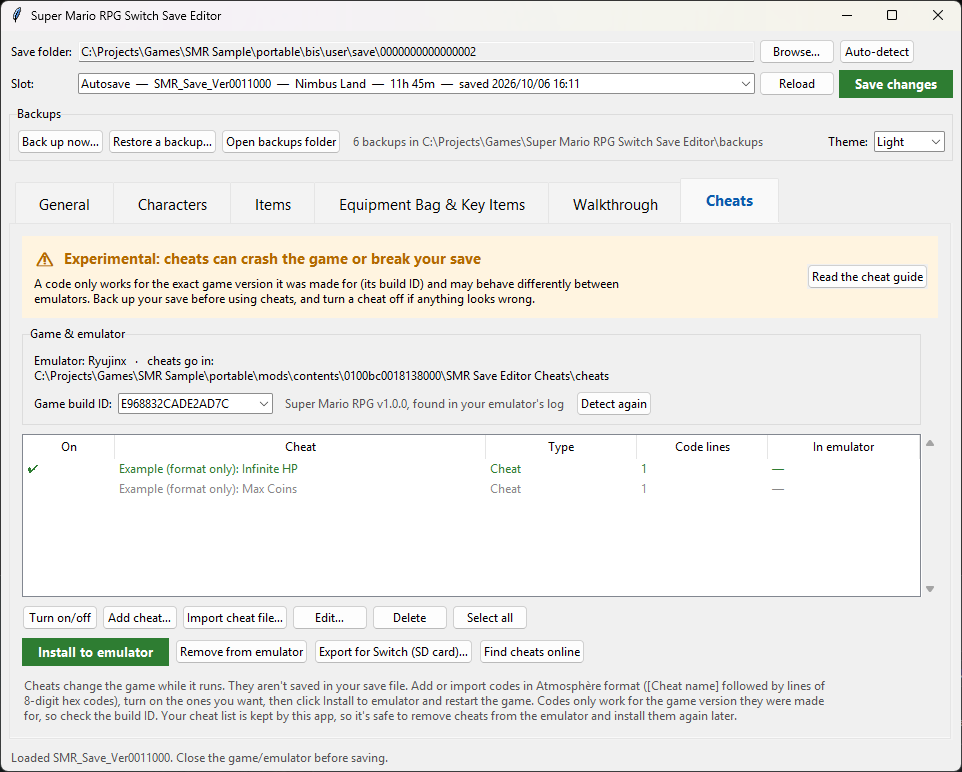
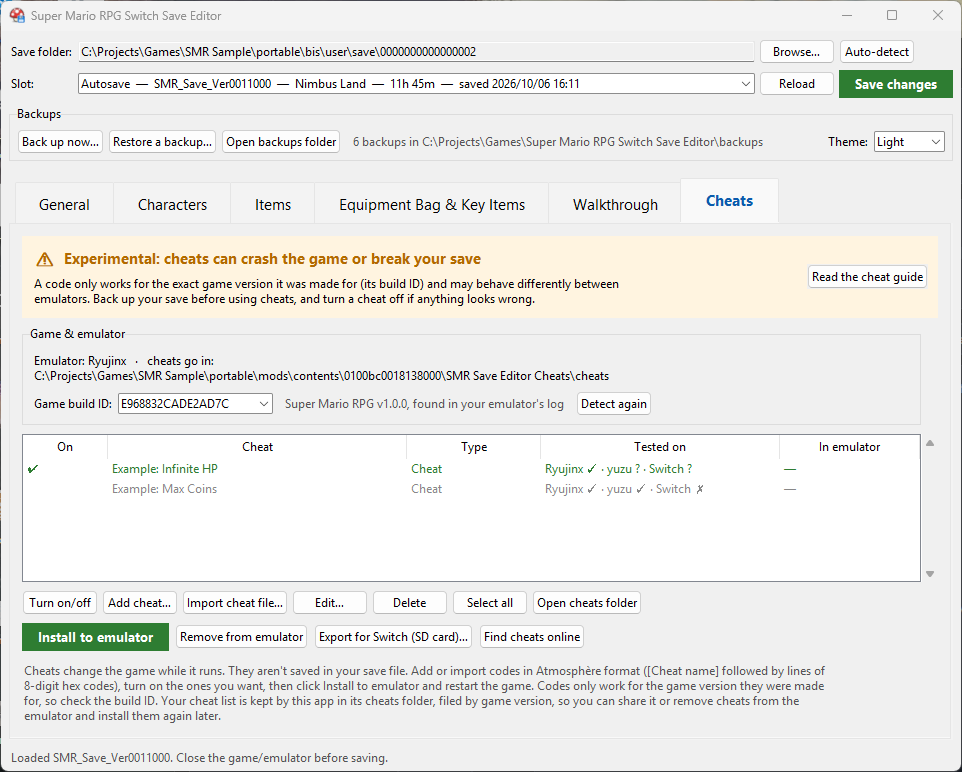
File cheats in a per-version library with tested-on results
- Cheats are saved in cheats/<game>/<version - build ID>/ as the
  Atmosphere .txt, info.json (description, author, tested on Ryujinx /
  yuzu family / Switch) and a generated README table, ready to share
- Add/Edit dialog gains What it does, Author and Tested on fields; the
  Cheats tab shows a Tested on column and an Open cheats folder button
- Importing a library folder brings its descriptions and test results
- Which cheats are switched on is kept per user in settings; cheats saved
  by the previous version are moved into the library automatically
- cheats/README.md and the cheat guide explain the layout

diff --git a/smr_save_editor.py b/smr_save_editor.py
@@ -24,6 +24,7 @@ from tkinter import filedialog, messagebox, simpledialog, ttk
 APP_NAME = "Super Mario RPG Switch Save Editor"
 APP_DIR = os.path.dirname(os.path.abspath(sys.executable if getattr(sys, "frozen", False) else __file__))
 BACKUP_DIR = os.path.join(APP_DIR, "backups")
+CHEAT_LIB_DIR = os.path.join(APP_DIR, "cheats")   # cheats/<game>/<version - build ID>/, shareable
 RESOURCE_DIR = getattr(sys, "_MEIPASS", APP_DIR)     # bundled files live here inside the .exe
 SETTINGS_PATH = os.path.join(os.environ.get("APPDATA") or os.path.expanduser("~/.config"),
                              APP_NAME, "settings.json")
@@ -445,6 +446,87 @@ def format_cheats(cheats):
     return "\n".join(out)
 
 
+# ---------- cheat library: cheats/<game>/<version - build ID>/ ----------
+GAME_FOLDER = f"{TITLE_ID} - Super Mario RPG"
+TEST_TARGETS = ("Ryujinx", "yuzu family", "Switch")
+TEST_STATES = ("Untested", "Works", "Doesn't work")
+TEST_ICONS = {"Untested": "❔", "Works": "✅", "Doesn't work": "❌"}
+
+
+def library_builds():
+    """{build ID: folder} for every game version that has a cheat folder."""
+    root = os.path.join(CHEAT_LIB_DIR, GAME_FOLDER)
+    found = {}
+    if os.path.isdir(root):
+        for name in sorted(os.listdir(root)):
+            m = re.search(r"([0-9A-Fa-f]{16})$", name)
+            if m and os.path.isdir(os.path.join(root, name)):
+                found[m.group(1).upper()] = os.path.join(root, name)
+    return found
+
+
+def build_folder(bid):
+    return library_builds().get(bid) or os.path.join(
+        CHEAT_LIB_DIR, GAME_FOLDER, f"{KNOWN_BUILDS.get(bid, 'unknown version')} - {bid}")
+
+
+def read_library(bid):
+    """Cheats filed for one build: the Atmosphère file plus the details in info.json."""
+    folder = library_builds().get(bid)
+    if not folder:
+        return []
+    try:
+        cheats = parse_cheats(open(os.path.join(folder, bid + ".txt"), encoding="utf-8-sig").read())
+    except (OSError, ValueError):
+        return []
+    try:
+        info = json.load(open(os.path.join(folder, "info.json"), encoding="utf-8"))
+        details = {c["name"]: c for c in info.get("cheats", [])}
+    except (OSError, ValueError, KeyError):
+        details = {}
+    for c in cheats:
+        d = details.get(c["name"], {})
+        c["description"] = d.get("description", "")
+        c["author"] = d.get("author", "")
+        c["tested"] = {t: d.get("tested", {}).get(t, "Untested") for t in TEST_TARGETS}
+    return cheats
+
+
+def write_library(bid, cheats):
+    """Write a build's folder: <build ID>.txt (ready for any emulator), info.json, README.md."""
+    folder = build_folder(bid)
+    if not cheats:
+        for f in (bid + ".txt", "info.json", "README.md"):
+            if os.path.exists(os.path.join(folder, f)):
+                os.remove(os.path.join(folder, f))
+        if os.path.isdir(folder) and not os.listdir(folder):
+            os.rmdir(folder)
+        return
+    os.makedirs(folder, exist_ok=True)
+    with open(os.path.join(folder, bid + ".txt"), "w", encoding="utf-8", newline="\n") as f:
+        f.write(format_cheats(cheats))
+    version = KNOWN_BUILDS.get(bid, "unknown version")
+    info = {"game": "Super Mario RPG", "title_id": TITLE_ID, "version": version, "build_id": bid,
+            "cheats": [{"name": c["name"], "description": c.get("description", ""), "author": c.get("author", ""),
+                        "master": bool(c.get("master")),
+                        "tested": {t: c.get("tested", {}).get(t, "Untested") for t in TEST_TARGETS}}
+                       for c in cheats]}
+    with open(os.path.join(folder, "info.json"), "w", encoding="utf-8", newline="\n") as f:
+        json.dump(info, f, indent=2, ensure_ascii=False)
+    rows = ["| Cheat | What it does | " + " | ".join(TEST_TARGETS) + " | Author |",
+            "|---|---|" + "---|" * len(TEST_TARGETS) + "---|"]
+    for c in cheats:
+        name = c["name"] + (" *(master code)*" if c.get("master") else "")
+        tested = " | ".join(TEST_ICONS[c.get("tested", {}).get(t, "Untested")] for t in TEST_TARGETS)
+        rows.append(f"| {name} | {c.get('description', '') or '—'} | {tested} | {c.get('author', '') or '—'} |")
+    with open(os.path.join(folder, "README.md"), "w", encoding="utf-8", newline="\n") as f:
+        f.write(f"# Super Mario RPG {version} cheats\n\nBuild ID `{bid}` · title ID `{TITLE_ID}`\n\n"
+                + "\n".join(rows) + "\n\n✅ works · ❌ doesn't work · ❔ untested\n\n"
+                "Install with the editor's **Cheats** tab (**Import cheat file…** and pick "
+                f"`{bid}.txt`), or copy `{bid}.txt` into your emulator's cheat folder. "
+                "See the [cheat guide](../../../docs/CHEATS.md).\n")
+
+
 def emulator_for(save_folder):
     """Work out which emulator a save folder belongs to, and where its cheats go.
 
@@ -836,8 +918,8 @@ class Editor(tk.Tk):
         ttk.Label(top, textvariable=self.build_note, style="Muted.TLabel").grid(row=1, column=2, sticky="w", padx=6, pady=(6, 0))
         ttk.Button(top, text="Detect again", command=self.detect_cheat_target).grid(row=1, column=3, padx=4, pady=(6, 0))
 
-        self.cheat_tree = self._make_tree(ct, (("on", "On", 50), ("name", "Cheat", 330), ("kind", "Type", 110),
-                                               ("lines", "Code lines", 90), ("installed", "In emulator", 110)),
+        self.cheat_tree = self._make_tree(ct, (("on", "On", 45), ("name", "Cheat", 260), ("kind", "Type", 95),
+                                               ("tested", "Tested on", 200), ("installed", "In emulator", 100)),
                                           row=2, height=6)
         self.cheat_tree.bind("<Double-1>", lambda e: self.toggle_cheats())
 
@@ -846,7 +928,7 @@ class Editor(tk.Tk):
         for text, cmd in (("Turn on/off", self.toggle_cheats), ("Add cheat…", self.add_cheat),
                           ("Import cheat file…", self.import_cheats), ("Edit…", self.edit_cheat),
                           ("Delete", self.delete_cheats), ("Select all", lambda: self.cheat_tree.selection_set(
-                              self.cheat_tree.get_children()))):
+                              self.cheat_tree.get_children())), ("Open cheats folder", self.open_cheat_folder)):
             ttk.Button(acts, text=text, command=cmd).pack(side="left", padx=(0, 4))
 
         inst = ttk.Frame(ct)
@@ -860,7 +942,7 @@ class Editor(tk.Tk):
             "codes in Atmosphère format ([Cheat name] followed by lines of 8-digit hex codes), turn on the "
             "ones you want, then click Install to emulator and restart the game. Codes only work for "
             "the game version they were made for, so check the build ID. Your cheat list is kept by "
-            "this app, so it's safe to remove cheats from the emulator and install them again later.")).grid(
+            "this app in its cheats folder, filed by game version, so you can share it or remove cheats from the emulator and install them again later.")).grid(
             row=5, column=0, columnspan=6, sticky="w", pady=(10, 0))
         nb.bind("<<NotebookTabChanged>>", self.on_tab_changed)
 
@@ -1627,26 +1709,38 @@ class Editor(tk.Tk):
             tree.heading(c, text=text + ((" ▼" if reverse else " ▲") if c == col else ""))
 
     # ---------- cheats ----------
-    def cheats_file(self):
-        return os.path.join(os.path.dirname(SETTINGS_PATH), "cheats.json")
-
     def load_cheat_library(self):
+        """Move cheats saved by older versions (one cheats.json in the settings folder) into the
+        per-build library folders."""
+        old = os.path.join(os.path.dirname(SETTINGS_PATH), "cheats.json")
+        if not os.path.exists(old):
+            return
         try:
-            with open(self.cheats_file(), encoding="utf-8") as f:
-                self.cheat_lib = json.load(f)
-        except (OSError, ValueError):
-            self.cheat_lib = {}
+            data = json.load(open(old, encoding="utf-8"))
+            for bid, cheats in data.items():
+                have = {c["name"]: c for c in read_library(bid)}
+                for c in cheats:
+                    have.setdefault(c["name"], dict(c, description="", author="",
+                                                    tested={t: "Untested" for t in TEST_TARGETS}))
+                write_library(bid, list(have.values()))
+                on = self.settings.setdefault("cheats_on", {}).setdefault(bid, [])
+                on.extend(c["name"] for c in cheats if c.get("on") and c["name"] not in on)
+            store_settings(self.settings)
+            os.replace(old, old + ".migrated")
+        except (OSError, ValueError, KeyError):
+            pass
 
     def store_cheat_library(self):
         bid = self.current_build()
-        if bid:
-            self.cheat_lib[bid] = self.cheats
+        if not bid:
+            return
         try:
-            os.makedirs(os.path.dirname(self.cheats_file()), exist_ok=True)
-            with open(self.cheats_file(), "w", encoding="utf-8") as f:
-                json.dump(self.cheat_lib, f, indent=2)
+            write_library(bid, self.cheats)
         except OSError as e:
-            messagebox.showerror("Couldn't save cheat list", str(e))
+            messagebox.showerror("Couldn't save cheats", str(e))
+            return
+        self.settings.setdefault("cheats_on", {})[bid] = [c["name"] for c in self.cheats if c.get("on")]
+        store_settings(self.settings)
 
     def current_build(self):
         bid = self.build_id.get().strip().upper()
@@ -1656,7 +1750,7 @@ class Editor(tk.Tk):
         self.emulator = emulator_for(self.root_dir.get())
         found = detect_build_ids(self.emulator)
         known = [b for b in found if b in KNOWN_BUILDS] + [b for b in found if b not in KNOWN_BUILDS]
-        stored = [b for b in self.cheat_lib if b not in known]
+        stored = [b for b in library_builds() if b not in known]
         self.build_box["values"] = known + stored
         if known:
             self.build_id.set(known[0])
@@ -1673,13 +1767,16 @@ class Editor(tk.Tk):
 
     def load_cheats(self):
         bid = self.current_build()
-        self.cheats = [dict(c) for c in self.cheat_lib.get(bid, [])] if bid else []
+        self.cheats = read_library(bid) if bid else []
+        on = set(self.settings.get("cheats_on", {}).get(bid, []))
+        for c in self.cheats:
+            c["on"] = c["name"] in on
         if not bid:
             self.build_note.set("Enter the 16-character build ID (Ryujinx: right-click the game → Manage Cheats).")
         elif bid in KNOWN_BUILDS:
             self.build_note.set(f"Super Mario RPG {KNOWN_BUILDS[bid]}, found in your emulator's log")
         elif bid in (self.build_box["values"] or ()):
-            self.build_note.set("Found in your emulator's log")
+            self.build_note.set("Found in your emulator's log or your cheat library")
         else:
             self.build_note.set("Entered by hand")
         self.refresh_cheats()
@@ -1698,12 +1795,22 @@ class Editor(tk.Tk):
         keep = set(self.cheat_tree.selection()) if keep is None else {str(k) for k in keep}
         self.cheat_tree.delete(*self.cheat_tree.get_children())
         installed = self.installed_names()
+        short = {"Ryujinx": "Ryujinx", "yuzu family": "yuzu", "Switch": "Switch"}
         for n, c in enumerate(self.cheats):
+            marks = {"Untested": "?", "Works": "✓", "Doesn't work": "✗"}      # plain symbols draw cleanly in Tk
+            tested = " · ".join(f"{short[t]} {marks[c.get('tested', {}).get(t, 'Untested')]}" for t in TEST_TARGETS)
             self.cheat_tree.insert("", "end", iid=str(n), tags=("on" if c.get("on") else "off",), values=(
                 "✔" if c.get("on") else "", c["name"], "Master code" if c.get("master") else "Cheat",
-                len(c["lines"]), "Installed" if c["name"] in installed else "—"))
+                tested, "Installed" if c["name"] in installed else "—"))
         self.cheat_tree.selection_set([k for k in keep if self.cheat_tree.exists(k)])
         self.apply_sort(self.cheat_tree)
+
+    def open_cheat_folder(self):
+        if self.need_build():
+            return
+        folder = build_folder(self.current_build())
+        os.makedirs(folder, exist_ok=True)
+        open_folder(folder)
 
     def selected_cheats(self):
         return sorted(int(s) for s in self.cheat_tree.selection())
@@ -1736,6 +1843,9 @@ class Editor(tk.Tk):
             new = [c for c in new if c["name"] not in names]
         for c in new:
             c.setdefault("on", False)
+            c.setdefault("description", "")
+            c.setdefault("author", "")
+            c.setdefault("tested", {t: "Untested" for t in TEST_TARGETS})
             if c["name"] in names:
                 self.cheats[names[c["name"]]] = c
             else:
@@ -1766,32 +1876,54 @@ class Editor(tk.Tk):
                                        f"but the build ID selected is {self.current_build()}. Cheats for a "
                                        "different version usually don't work. Import anyway?"):
                 return
+        # A library folder carries descriptions and test results next to the cheat file.
+        info = os.path.join(os.path.dirname(path), "info.json")
+        if os.path.exists(info):
+            try:
+                details = {c["name"]: c for c in json.load(open(info, encoding="utf-8")).get("cheats", [])}
+                for c in new:
+                    d = details.get(c["name"], {})
+                    c["description"], c["author"] = d.get("description", ""), d.get("author", "")
+                    c["tested"] = {t: d.get("tested", {}).get(t, "Untested") for t in TEST_TARGETS}
+            except (OSError, ValueError, KeyError):
+                pass
         self.add_cheats(new, os.path.basename(path))
 
     def cheat_dialog(self, cheat=None):
         """Add/edit dialog. Returns the new cheat dict, or None if cancelled."""
         win = tk.Toplevel(self)
         win.title("Edit cheat" if cheat else "Add cheat")
-        win.geometry("560x420")
+        win.geometry("600x600")
         win.transient(self)
         win.grab_set()
         body = ttk.Frame(win, padding=12)
         body.pack(fill="both", expand=True)
-        ttk.Label(body, text="Name").pack(anchor="w")
-        name = tk.StringVar(value=cheat["name"] if cheat else "")
-        ttk.Entry(body, textvariable=name, width=60).pack(anchor="w", fill="x")
-        master = tk.BooleanVar(value=bool(cheat and cheat.get("master")))
+        cheat = cheat or {}
+        fields = {}
+        for key, label in (("name", "Name"), ("description", "What it does"), ("author", "Author (optional)")):
+            ttk.Label(body, text=label).pack(anchor="w", pady=(6, 0) if key != "name" else 0)
+            fields[key] = tk.StringVar(value=cheat.get(key, ""))
+            ttk.Entry(body, textvariable=fields[key], width=70).pack(anchor="w", fill="x")
+        master = tk.BooleanVar(value=bool(cheat.get("master")))
         ttk.Checkbutton(body, text="Master code (needed by some cheats; always on)", variable=master).pack(
-            anchor="w", pady=(6, 0))
+            anchor="w", pady=(8, 0))
+        tested_box = ttk.LabelFrame(body, text="Tested on", padding=6)
+        tested_box.pack(fill="x", pady=(8, 0))
+        tested = {}
+        for col, target in enumerate(TEST_TARGETS):
+            ttk.Label(tested_box, text=target).grid(row=0, column=col * 2, sticky="w", padx=(0 if col == 0 else 14, 4))
+            tested[target] = tk.StringVar(value=cheat.get("tested", {}).get(target, "Untested"))
+            ttk.Combobox(tested_box, textvariable=tested[target], values=TEST_STATES, state="readonly",
+                         width=12).grid(row=0, column=col * 2 + 1)
         ttk.Label(body, text="Code (one instruction per line, 8-digit hex groups)").pack(anchor="w", pady=(8, 0))
-        code = tk.Text(body, height=12, font=("Consolas", 10), wrap="none")
+        code = tk.Text(body, height=10, font=("Consolas", 10), wrap="none")
         code.pack(fill="both", expand=True)
-        if cheat:
+        if cheat.get("lines"):
             code.insert("1.0", "\n".join(cheat["lines"]))
         result = {}
 
         def ok():
-            label = name.get().strip()
+            label = fields["name"].get().strip()
             if not label or any(ch in label for ch in "[]{}"):
                 messagebox.showerror("Name needed", "Give the cheat a name (without [ ] or { }).", parent=win)
                 return
@@ -1801,6 +1933,9 @@ class Editor(tk.Tk):
                 messagebox.showerror("Invalid code", str(e).replace("Line ", "Code line ", 1), parent=win)
                 return
             result["cheat"] = {"name": label, "lines": parsed[0]["lines"], "master": master.get(),
+                               "description": fields["description"].get().strip(),
+                               "author": fields["author"].get().strip(),
+                               "tested": {t: v.get() for t, v in tested.items()},
                                "on": bool(cheat.get("on")) if cheat else master.get()}
             win.destroy()
 
@@ -1833,7 +1968,7 @@ class Editor(tk.Tk):
     def delete_cheats(self):
         sel = self.selected_cheats()
         if not sel or not messagebox.askyesno("Delete cheats", f"Delete {len(sel)} cheat"
-                                              f"{'s' if len(sel) != 1 else ''} from your list?"):
+                                              f"{'s' if len(sel) != 1 else ''} from your library?"):
             return
         self.cheats = [c for n, c in enumerate(self.cheats) if n not in sel]
         self.store_cheat_library()

diff --git a/cheats/README.md b/cheats/README.md
@@ -1,0 +1,32 @@
+# 🎮 Cheat library
+
+> [!WARNING]
+> Cheats are **experimental**. A code only works for the exact game version it was made for, and a mismatched code can crash the game or corrupt your save. **Back up your save first.** See the [cheat guide](../docs/CHEATS.md).
+
+Cheats are filed by **game**, then by **game version (build ID)**:
+
+```
+cheats/
+└── 0100BC0018138000 - Super Mario RPG/
+    └── v1.0.0 - E968832CADE2AD7C/
+        ├── E968832CADE2AD7C.txt   ← all cheats for this version (Atmosphère format)
+        ├── info.json              ← what each cheat does, who made it, where it was tested
+        └── README.md              ← a readable table of the above
+```
+
+## Why only by version?
+
+| What | Needs its own folder? | Why |
+|---|---|---|
+| **Game version (build ID)** | ✅ Yes | Codes point at memory addresses that move with every game update |
+| Emulator (Ryujinx, yuzu family) or Switch | ❌ No | They all run the same Atmosphère cheat format, so one file works everywhere. Each cheat records where it was **tested** instead: ✅ works · ❌ doesn't work · ❔ untested |
+| Switch firmware | ❌ No | Cheats talk to the game, not the system |
+
+## Using a cheat file
+
+- **With the editor:** on the **Cheats** tab, click **Import cheat file…** and pick the `.txt` inside the version folder. The descriptions and test results in `info.json` come along too.
+- **By hand:** copy the `.txt` into your emulator's cheat folder. The [cheat guide](../docs/CHEATS.md#where-the-files-go) lists where that is.
+
+## Adding cheats
+
+Cheats you add in the editor are filed here automatically, in the right version folder, along with their descriptions and test results. To share them, commit the folder or open a pull request. Please fill in **What it does** and **Tested on** for every cheat.

diff --git a/docs/CHEATS.md b/docs/CHEATS.md
@@ -6,6 +6,7 @@
 - [How cheats work](#how-cheats-work)
 - [Will a code work for me?](#will-a-code-work-for-me)
 - [Using cheats with the editor](#using-cheats-with-the-editor)
+- [The cheat library](#the-cheat-library)
 - [Where the files go](#where-the-files-go)
 - [Code format](#code-format)
 - [Making your own cheats](#making-your-own-cheats)
@@ -65,6 +66,19 @@ Most codes work everywhere, but emulators don't behave identically, so **test a 
 6. **Restart the game.** Cheats are loaded when the game starts.
 
 To stop a cheat, turn it off and click **Install to emulator** again, or click **Remove from emulator**. Your list stays in the app either way.
+
+---
+
+## The cheat library
+
+Every cheat you add in the editor is saved in the **`cheats`** folder next to the app, filed by game version:
+
+```
+cheats/0100BC0018138000 - Super Mario RPG/v1.0.0 - E968832CADE2AD7C/
+    E968832CADE2AD7C.txt   info.json   README.md
+```
+
+Only the game version gets its own folder. Emulators and Switch firmware don't, because one code file works on all of them. Instead, each cheat records where it was **tested**: Ryujinx, the yuzu family and Switch, each marked ✅ works, ❌ doesn't work or ❔ untested. Set these in **Add cheat…** / **Edit…**. **Open cheats folder** on the Cheats tab takes you there. See [cheats/README.md](../cheats/README.md) for the full layout.
 
 ---
 

diff --git a/README.md b/README.md
@@ -238,6 +238,8 @@ Cheats change the game **while it's running** (things like infinite HP or EXP mu
 > [!IMPORTANT]
 > Cheat codes only work for the **exact game version** they were written for. The editor reads your game's **build ID** from Ryujinx's log (v1.0.0 is `E968832CADE2AD7C`). You can also type it in: Ryujinx shows it at the top of **Manage Cheats**.
 
+Your cheats are filed in the **[`cheats`](cheats/README.md)** folder by game version, with a description and a **Tested on** result (Ryujinx / yuzu family / Switch) for each one, ready to share.
+
 The editor only manages its own cheat file, so it never touches cheats you installed another way. Your cheat list is kept by the app, so removing cheats from the emulator doesn't lose them.
 
 ---
